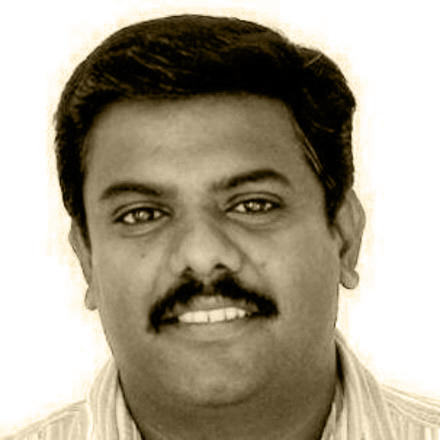
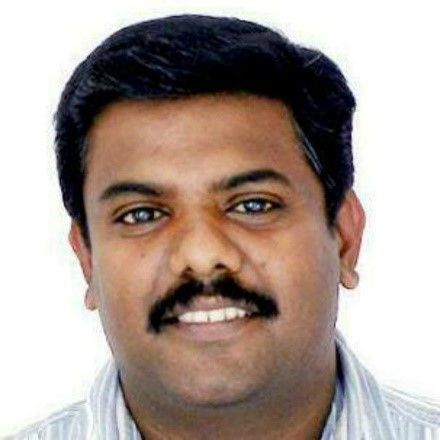
founders updated

diff --git a/index.html b/index.html
@@ -613,7 +613,7 @@ Start Call To Action
 	               <div class="team-member text-center">
 						<div class="member-photo">
 							<!-- member photo -->
-							<img class="img-responsive" src="images/team/member-1.jpg" alt="Meghna"> 
+							<img class="img-responsive" src="images/team/member1.png" alt="sa.jpg"> 
 							<!-- /member photo -->
 							
 							<!-- member social profile -->
@@ -631,11 +631,8 @@ Start Call To Action
 						<!-- member name & designation -->
 						<div class="member-content text-center">
 							<h3>Jeeva S. Chelladhurai</h3>
-							<span>Founder</span>
-							<p>Equipped with 50+ developers/DBAs/PMs</p>
-							<p>Blockchain/Devops/Microservices/Cloud Automation Expert</p>
-							<p>Technical Author and over 20 years experience on Product Development</p>
-							<p>GDC at Bangalore</p>
+							<span>Founder</span><br>
+							<p></p>
 						</div> 
 						<!-- /member name & designation -->
 					   
@@ -648,7 +645,7 @@ Start Call To Action
 	               <div class="team-member text-center">
 						<div class="member-photo"> 
 							<!-- member photo -->
-							 <img class="img-responsive" src="images/team/member-2.jpg" alt="Meghna">
+							 <img class="img-responsive" src="images/team/member2.png" alt="sb.jpg">
 							<!-- /member photo -->
 							
 							<!-- member social profile -->
@@ -666,9 +663,8 @@ Start Call To Action
 						<div class="member-content">
 							<h3>Mohamed Ijaz</h3>
 							<span>Co-Founder</span>
-							<p>Leads the entire Blockchain team at Comorin.</p>
-							<p>Blockchain Architect/Microservice Architect/Docker/Full Stack</p>
-							<p>Ethereum, Quorum, AChain, HyperLedger, ERC tokens etc.</p>
+							<p></p>
+							
 						</div> 
 						<!-- /member name & designation -->
 					</div>
